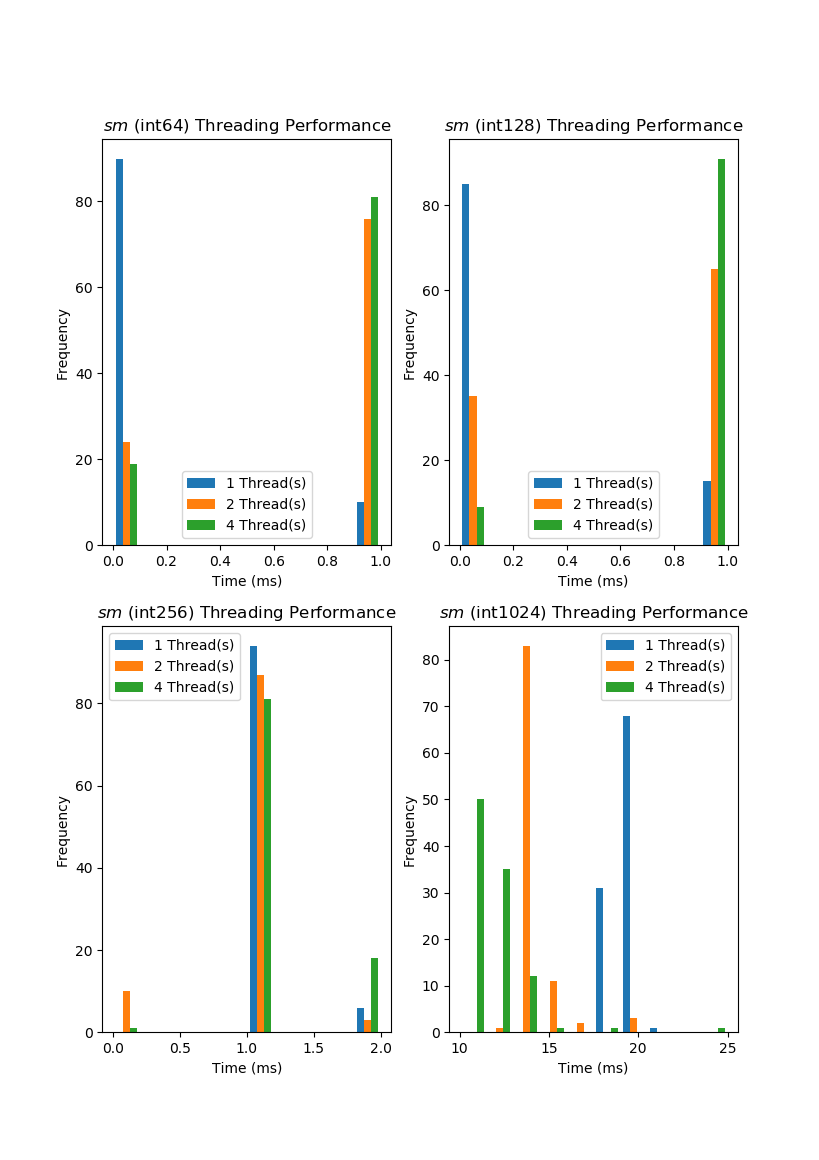
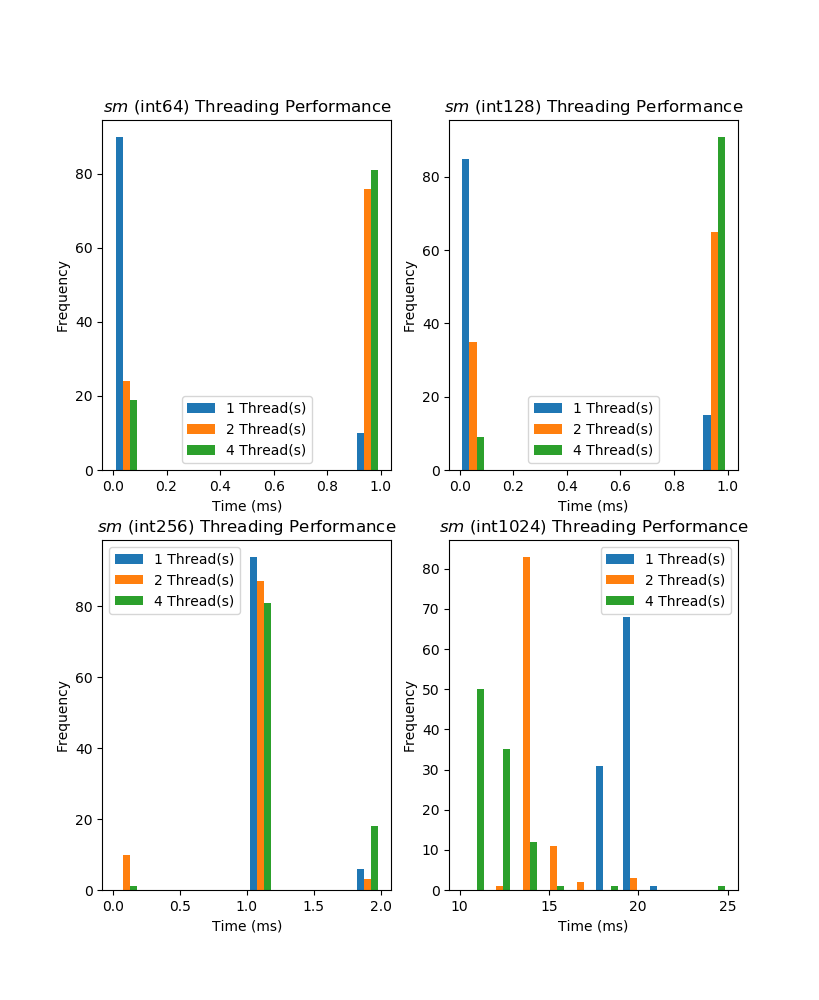
(checkpoint) report mostly finalized

diff --git a/graph_results.py b/graph_results.py
@@ -3,11 +3,13 @@ import math
 from operator import itemgetter
 from itertools import groupby
 import matplotlib.pyplot as plt
-plt.rcParams["figure.figsize"] = (8.2, 11.6)
+plt.rcParams["figure.figsize"] = (8.2, 10)
 
 from perf_test import operations, thread_numbers, input_sizes
 
-with open("results2.csv", "r", newline="") as csv_fileobj:
+VERSION = "v1"
+
+with open(f"./{VERSION}-stats/{VERSION}-results.csv", "r", newline="") as csv_fileobj:
     reader = csv.reader(csv_fileobj)
     next(reader)
     rows = list(reader)
@@ -36,4 +38,4 @@ if __name__ == "__main__":
         for input_size in input_sizes:
             plt_op_hist(dim, dim, operation, input_size, plot_index)
             plot_index += 1
-        plt.savefig(f"{operation}.png", quality=100, papertype="a4", orientation="landscape")
+        plt.savefig(f"./{VERSION}-stats/{operation}.png", quality=100, papertype="a4", orientation="landscape")
